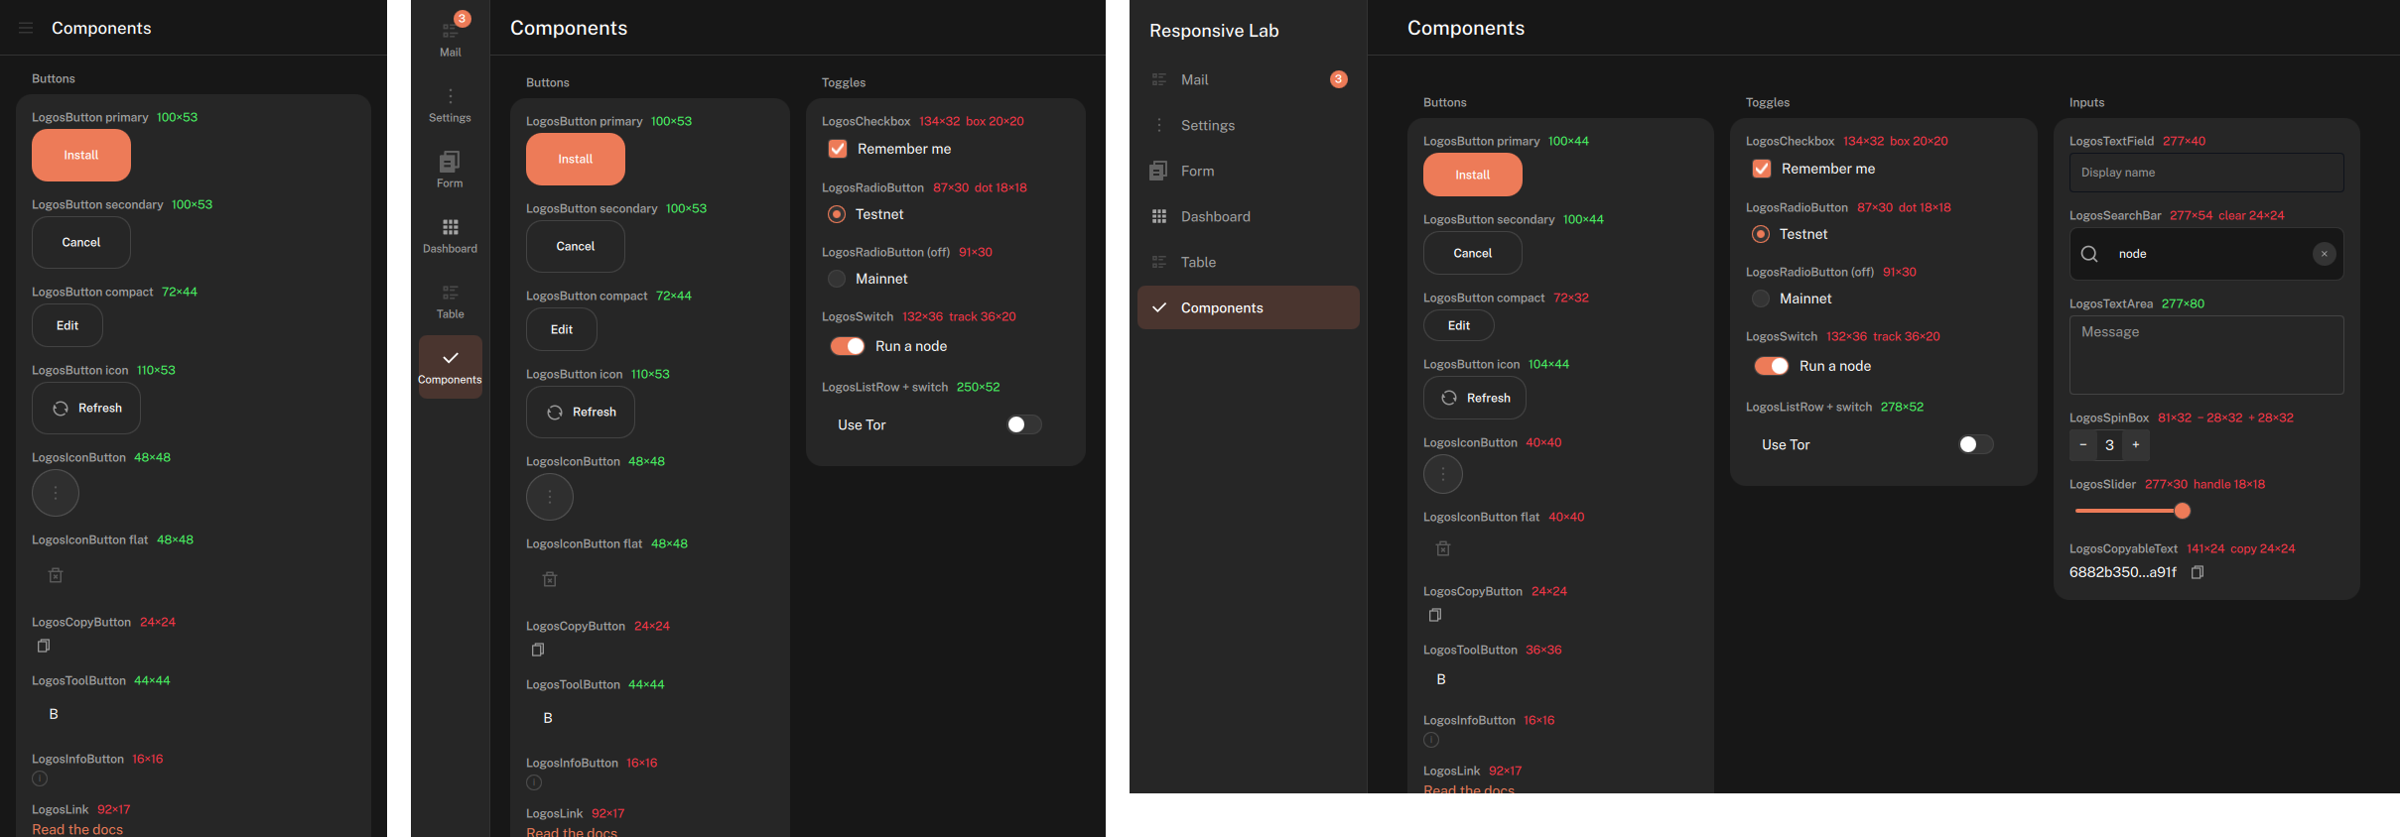
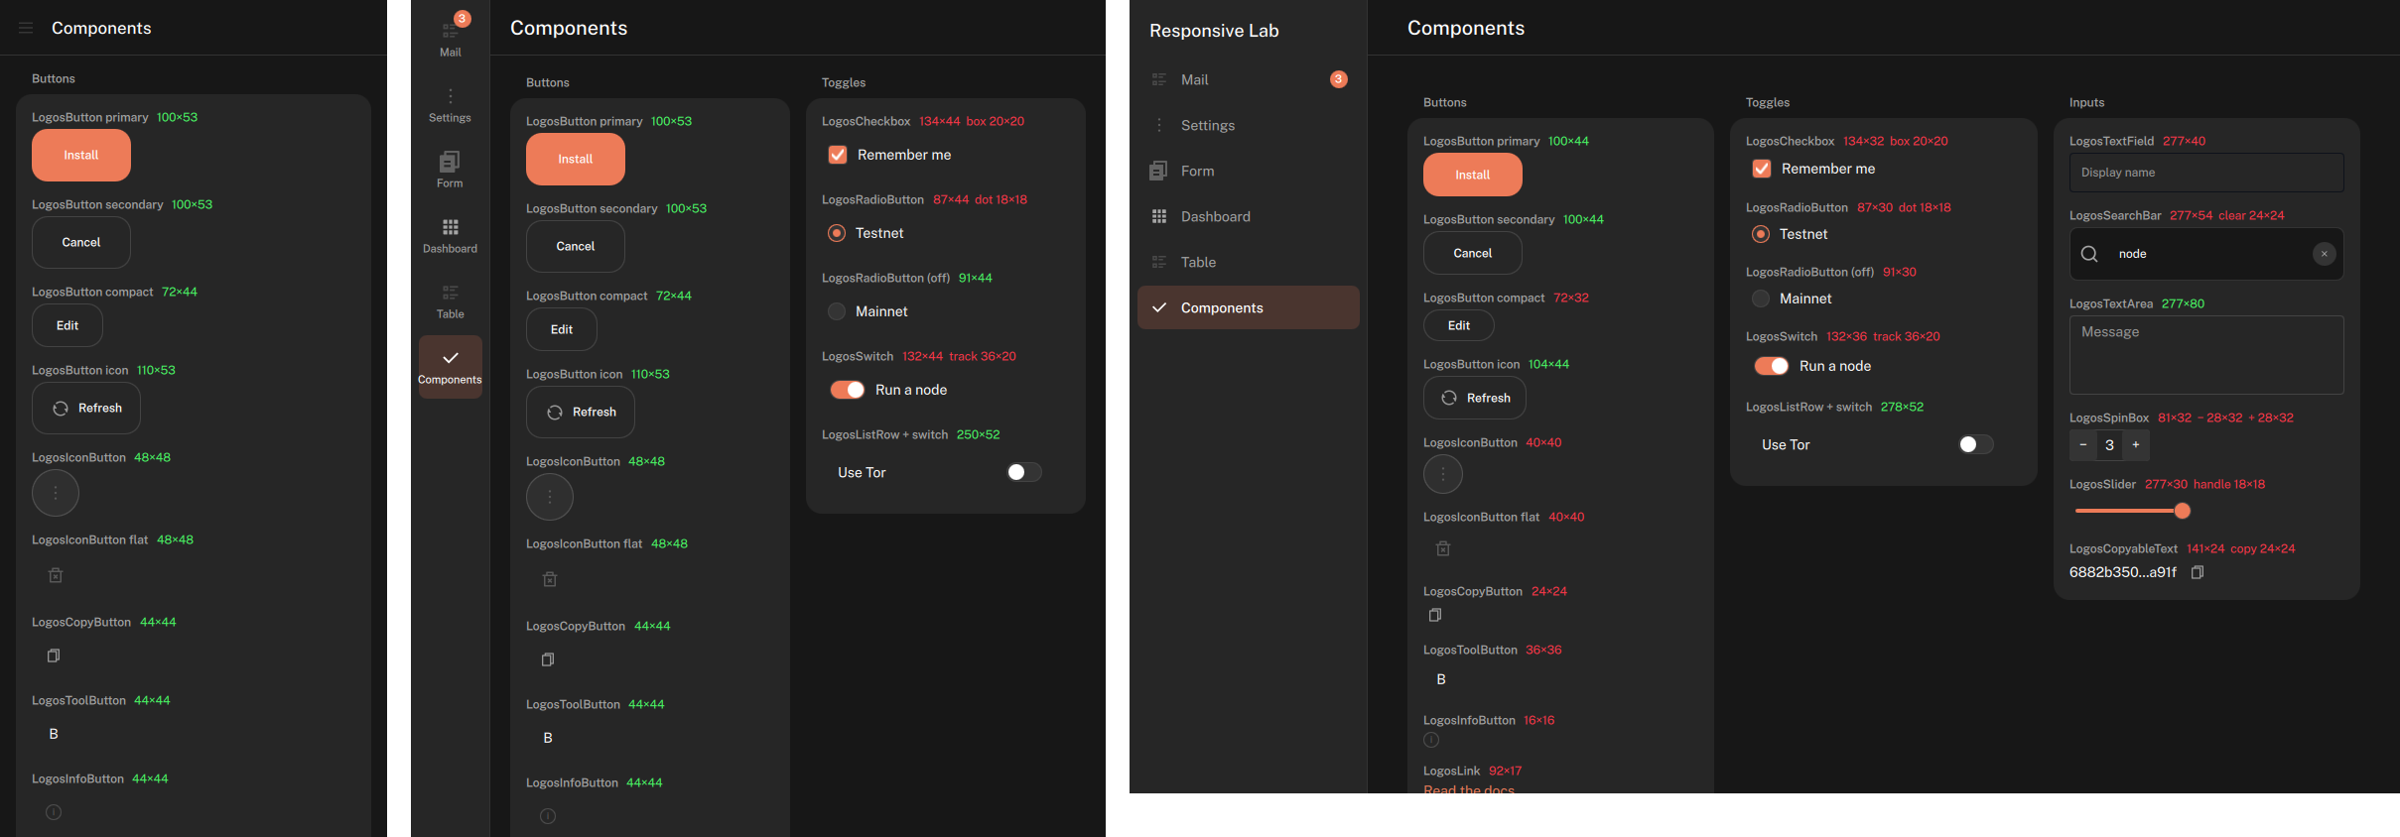
Responsive docs + skill: touch-density behaviour of the controls; gallery shots after the fixes

diff --git a/docs/RESPONSIVE.md b/docs/RESPONSIVE.md
@@ -137,31 +137,26 @@ Each prints `{overflow: [...], smallTargets: [...]}`. Both empty at every width 
 at 390/touch), no QML warnings, and the three PNGs look deliberate. Attach the montage
 (`montage.py`) to the PR.
 
-## 6. Known design-system gaps
+## 6. Touch density: what the controls do
+
+At `density: "touch"` every tappable part of every control is at least 44 × 44, measured in the
+lab's `gallery` screen (all screens pass `check-all.sh` at 390 / 700 touch). Visuals stay their
+size; the hit area grows. At comfortable and compact density, rendering is pixel-identical to
+before (diffed), except the Paginator, which now collapses to "‹ 4 / 10 ›" when it doesn't fit
+instead of being clipped.
+
+- Checkbox, radio, switch, slider: the whole row is ≥ 44 high; the box / dot / track / handle
+  keep their size.
+- Spin box: field height (48) with − / + 44 wide.
+- Copy, info, tile, link, search-bar ✕, notice / toast ✕, stage lane: 44 hit areas.
+- Combo popup rows, table header and checkbox cells: 44.
+- Table on touch: pressed / selected row backgrounds; the checkbox cell toggles the row.
+- Toast: tap pins it (auto-dismiss used to pause on hover only).
+- Tooltip: long-press opens on touch, tap outside closes (`openOnLongPress`).
 
 ![components at 390 touch / 700 / 1280](responsive/gallery.png)
 
-Measured in the lab's `gallery` screen (390 px, touch density). 23 of 35 control instances miss
-44 px at touch density, because their sizes are literals that density never touches.
-
-| Control | Touch size today | Fix |
-|---|---|---|
-| LogosCheckbox / LogosRadioButton / LogosSwitch | row 30–36 high | row height ≥ 44 on touch; indicator may stay small |
-| LogosSpinBox | 32 high, − / + 28 wide | height from `field.height`; − / + ≥ 44 × 44 |
-| LogosSlider | 30 high, handle 18 | control ≥ 44 high on touch; larger handle hit area |
-| LogosCopyButton, LogosCopyableText | 24 × 24 | size from `iconButton.size`, or a 44 hit area |
-| LogosInfoButton | 16 × 16 | keep the 16 px glyph, 44 hit area |
-| LogosTile | 40 × 40 | size from a token |
-| LogosLink | 17 high | vertical hit padding to 44 on touch |
-| LogosSearchBar clear ✕, LogosNotice / LogosToast close | 20–24 | 44 hit area, visual unchanged |
-| LogosComboBox popup rows | 39 | delegate height from `listItem.height` |
-| LogosPaginator | 36 (literal); overflows at 390 | tokenise; collapse to "‹ 4/10 ›" in compact |
-| LogosTable header / row checkbox | 36 / 32 | `headerHeight` from `_size(36)`; 44 checkbox cell; row press/selected states |
-| LogosStageLane (interactive) | 30 | 44 on touch |
-| LogosToolTip | opens on hover only | long-press opens; tap outside closes |
-| LogosToast | auto-dismiss pauses on hover only | tap to pin |
-
-Also missing for apps (found building the lab screens): a selected state and a third line on
+Still missing for apps (found building the lab screens): a selected state and a third line on
 `LogosListRow` (inbox rows), a list/detail container, a content card that matches
 `LogosStatCard` (`LogosFrame` doesn't), an `error` / help line on `LogosTextField`, a row-actions
 column on `LogosTable`, and `archive` / `reply` icons.

diff --git a/skills/mobile-ready-ui/SKILL.md b/skills/mobile-ready-ui/SKILL.md
@@ -53,10 +53,9 @@ Not listed? Combine these: a page is usually a scaffold + one pattern per region
 - No double-click: one tap opens. No horizontal scrolling of a page; long text elides or wraps.
 - Help and error text sit visibly under fields.
 
-Known design-system controls that are still under 44 at touch density (wrap them until the DS
-fixes land, see RESPONSIVE.md §6): checkbox, radio, switch rows; spin box − / +; slider; copy
-button; info button; tile; link; search-bar clear; notice / toast close; combo popup rows;
-paginator; table header and checkboxes. Tooltips never open on touch.
+Design-system controls reach 44 on their own at `density: "touch"` (since the touch-targets
+change); don't add wrappers for them. Your own tappable items (a custom row, an icon in a
+`MouseArea`) still need the 44 hit area themselves.
 
 ## 5. Prove it (required before you say done)
 
